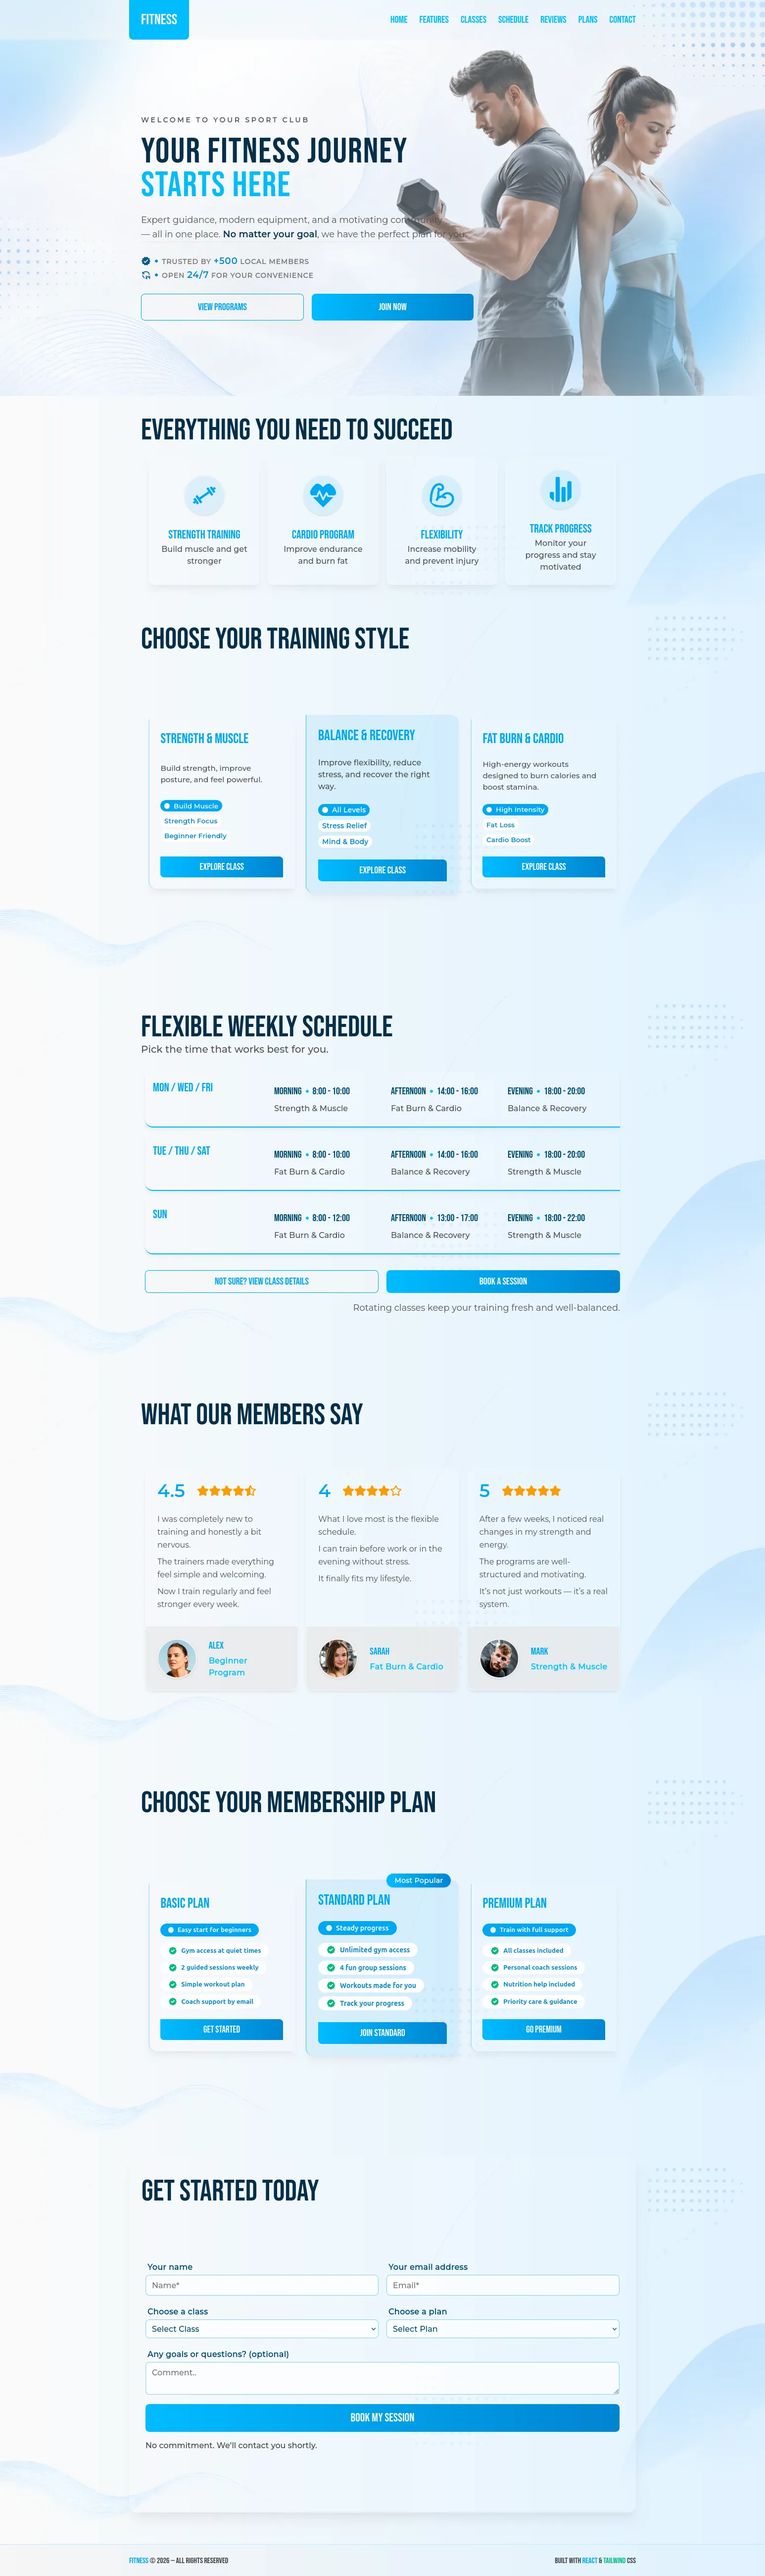
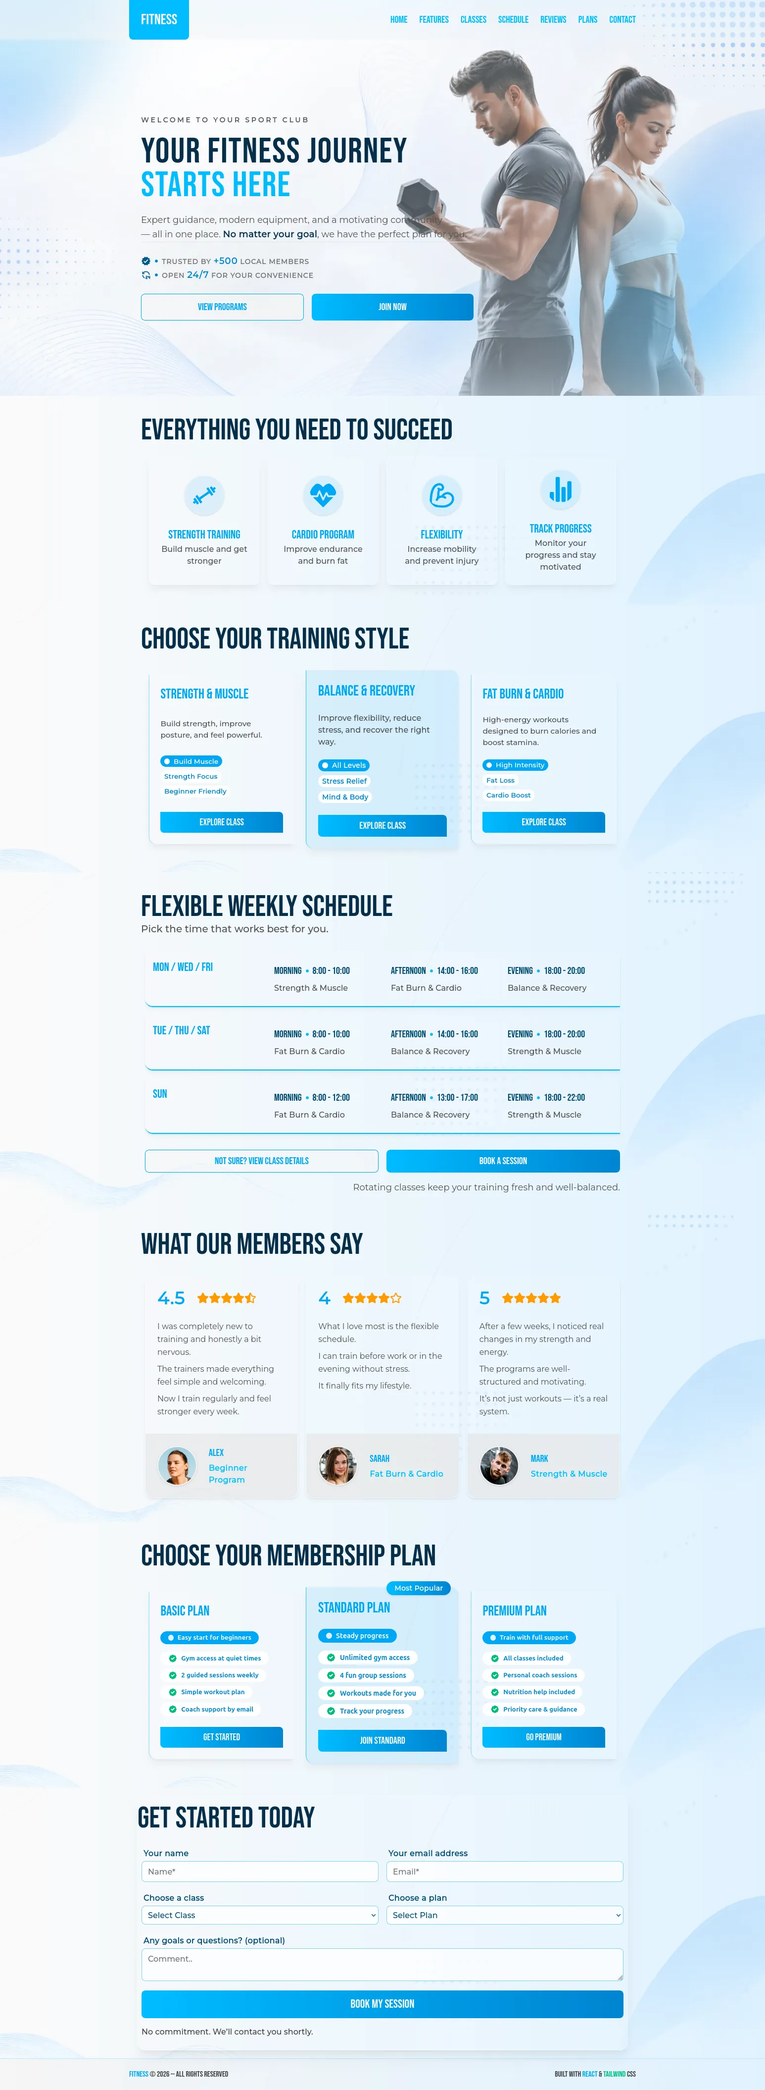
update page screenshots

diff --git a/src/index.css b/src/index.css
@@ -62,6 +62,21 @@
     @apply cursor-pointer border text-sky-500 bg-linear-to-r bg-neutral-100/50 hover:text-white hover:from-sky-400 hover:to-sky-500 active:scale-95 transition-all duration-300;
   }
 
+    .safe-screen-home {
+    min-height: calc(100vh);
+    min-height: calc(100svh);
+  }
+
+  .safe-screen-offset-home {
+    min-height: calc(100vh - var(--header-mobile));
+    min-height: calc(100svh - var(--header-mobile));
+  }
+
+  .safe-screen-offset-desktop-home {
+    min-height: calc(100vh - var(--header-desktop) - var(--footer-desktop));
+    min-height: calc(100svh - var(--header-desktop) - var(--footer-desktop));
+  }
+
   .safe-screen {
     min-height: calc(100vh);
     min-height: calc(100svh);

diff --git a/src/sections/HomeSection.jsx b/src/sections/HomeSection.jsx
@@ -11,7 +11,7 @@ const HomeSection = ({ sectionRef, sectionRefs }) => {
       className="home-section
       flex justify-center
       relative
-      safe-screen
+      safe-screen-home
       background-gradient"
     >
       {/* background image */}
@@ -55,8 +55,8 @@ const HomeSection = ({ sectionRef, sectionRefs }) => {
           flex flex-1
           mt-(--header-mobile) 
           md:mt-(--header-desktop)
-          safe-screen-offset
-          md:safe-screen-offset-desktop"
+          safe-screen-offset-home
+          md:safe-screen-offset-desktop-home"
         >
           <div
             className="home-left-container
